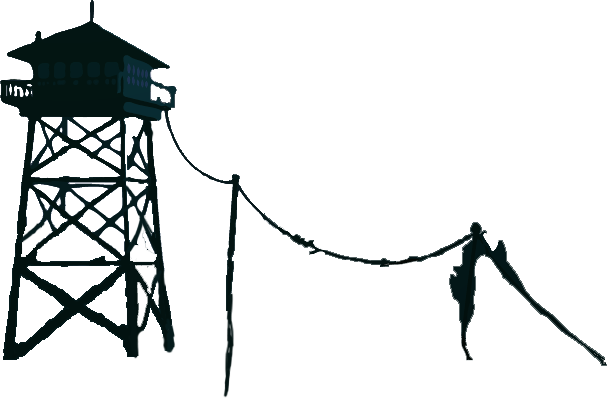
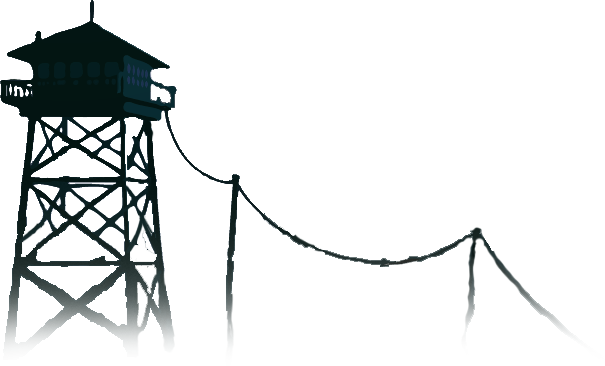
Added parallax movement effect

Changed region(s): [[0.0, 0.0301, 1.0, 1.0]]

diff --git a/style.css b/style.css
@@ -23,7 +23,9 @@ header {
 }
 
 header nav {
-    font-family: 'Spectral SC', serif;
+    font-family: 'Full Sans LC', serif;
+    text-transform: uppercase;
+    letter-spacing: 2px;
     justify-content: space-between;
     align-items: center;
     max-width: 1650px;
@@ -131,55 +133,44 @@ main {
 
 .layer7 {
     position: absolute;
-    width: 1920px;
     top: 50%;
     left: 50%;
-    transform: translate(-50%, -50%);
-    z-index: 1
+    z-index: 1;
 }
 
 .layer6 {
     position: absolute;
-    width: 1920px;
-    top: 55%;
+    top: 70%;
     left: 50%;
-    transform: translate(-50%, -50%);
     z-index: 2
 }
 
 .layer5 {
     position: absolute;
-    width: 1920px;
-    top: 60%;
+    top: 70%;
     left: 50%;
-    transform: translate(-50%, -50%);
     z-index: 3
 }
 
 .layer4 {
     position: absolute;
-    width: 1920px;
-    top: 65%;
+    top: 70%;
     left: 50%;
-    transform: translate(-50%, -50%);
     z-index: 4
 }
 
 .fog {
     position: absolute;
-    width: 1920px;
     top: 50%;
     left: 50%;
-    transform: translate(-50%, -50%);
     z-index: 5
 }
 
 .layer3 {
     position: absolute;
     width: 455px;
-    top: 50%;
-    left: 50%;
-    transform: translate(-15%, -50%);
+    top: 56%;
+    left: 58%;
     z-index: 6
 }
 
@@ -188,7 +179,7 @@ main {
     z-index: 7;
     display: flex;
     width: 100vw;
-    top: 52%;
+    top: 59%;
     left: 50%;
     transform: translate(-50%, -50%);
     text-align: center;
@@ -204,48 +195,44 @@ main {
 
 .layer2 {
     position: absolute;
-    width: 1920px;
-    top: 66%;
+    top: 75%;
     left: 50%;
-    transform: translate(-50%, -50%);
     z-index: 8
 }
 
 .layer1 {
     position: absolute;
-    width: 1920px;
-    top: 77%;
+    top:85%;
     left: 50%;
-    transform: translate(-50%, -50%);
     z-index: 9
 }
 
 .parallax {
     pointer-events: none;
-
+    transform: translate(-50%, -50%);
 }
 
 .slogan {
     position: absolute;
     z-index: 10;
-    top: 65%;
+    top: 72%;
     left: 50%;
-    transform: translate(-50%, -50%);
-    text-align: center;
+    text-align: left;
+    width: 600px;
     text-transform: uppercase;
     color: white;
     font-family: "Full Sans LC";
     font-size: 2.5rem;
     letter-spacing: 5px;
+    transform: translate(-50%, -50%);
 }
 
 .moon {
     position: absolute;
     width: 198px;
-    top: 18%;
+    top:26%;
     left: 50%;
-    transform: translate(-50%, -50%);
-    z-index: 11
+    z-index: 1
 }
 
 .light {
@@ -253,9 +240,9 @@ main {
     width: 1920px;
     top: 50%;
     left: 50%;
-    transform: translate(-50%, -50%);
     z-index: 12;
     pointer-events: none;
+    transform: translate(-50%, -50%);
 }
 
 /* Vignette */

diff --git a/index.html b/index.html
@@ -10,7 +10,7 @@
     <link rel="preconnect" href="https://fonts.gstatic.com" crossorigin>
     <link href="https://fonts.googleapis.com/css2?family=Quicksand:wght@300..700&display=swap" rel="stylesheet">
 </head>
-<body>
+<body onload = "sloganTypingEffect(); parallaxEffect()">
     <header>
         <nav id="desktop-nav">
             <div class="logo"><img src="Assets/Images/logo (white).png" alt="Jace Logo" style="width:50px;height:50px;"></div>
@@ -45,21 +45,21 @@
 
     <main>
         <div class="vignette"></div>
-        <img src="Assets/Images/Layer 7.png" class="parallax layer7">
-        <img src="Assets/Images/Layer 6.png" class="parallax layer6">
-        <img src="Assets/Images/Layer 5.png" class="parallax layer5">
-        <img src="Assets/Images/Layer 4.png" class="parallax layer4">
-        <img src="Assets/Images/fog.png" class="parallax fog">
-        <img src="Assets/Images/Layer 3.png" class="parallax layer3">
-        <div class="parallax name">
+        <img src="Assets/Images/Layer 7.png" data-speedX="0.027" data-speedY="0.027" class="parallax layer7">
+        <img src="Assets/Images/Layer 6.png" data-speedX="0.059" data-speedY="0.059" class="parallax layer6">
+        <img src="Assets/Images/Layer 5.png" data-speedX="0.08" data-speedY="0.08" class="parallax layer5">
+        <img src="Assets/Images/Layer 4.png" data-speedX="0.065" data-speedY="0.065" class="parallax layer4">
+        <img src="Assets/Images/fog.png" data-speedX="0.25" data-speedY="0.25" class="parallax fog">
+        <img src="Assets/Images/Layer 3.png" data-speedX="0.1" data-speedY="0.1" class="parallax layer3">
+        <div data-speedX="0.125" data-speedY="0.125" class="parallax name">
             <span>Jace Mu</span>
         </div>
-        <img src="Assets/Images/Layer 2.png" class="parallax layer2">
-        <img src="Assets/Images/Layer 1.png" class="parallax layer1">
-        <div class="slogan">
-            <p>Welcome to my story.</p>
+        <img src="Assets/Images/Layer 2.png" data-speedX="0.15" data-speedY="0.15" class="parallax layer2">
+        <img src="Assets/Images/Layer 1.png" data-speedX="0.22" data-speedY="0.22" class="parallax layer1">
+        <div data-speedX="0.125" data-speedY="0.125" class="parallax slogan">
+            <p id="sloganText"></p>
         </div>
-        <img src="Assets/Images/moon.png" class="parallax moon">
+        <img src="Assets/Images/moon.png" data-speedX="0.027" data-speedY="0.027" class="parallax moon">
         <img src="Assets/Images/light.png" class="light">
     </main>
 

diff --git a/script.js b/script.js
@@ -1,4 +1,35 @@
+function parallaxEffect() {
+    const parallax_el = document.querySelectorAll(".parallax");
+
+    let xValue = 0, yValue = 0;
+
+    window.addEventListener("mousemove", (e) => {
+        xValue = e.clientX - window.innerWidth/2;
+        yValue = e.clientY - window.innerHeight/2;
+
+        parallax_el.forEach((el) => {
+            let speedX = el.dataset.speedx;
+            let speedY = el.dataset.speedy;
+            el.style.transform = `translateX(calc(-50% + ${-xValue * speedX}px)) 
+            translateY(calc(-50% + ${yValue * speedY}px))`;
+            console.log(speedX);
+            console.log(el);
+        });
+    });
+}
+
 function toggleMenu() {
     const menu = document.querySelector('.menu-links');
-    
+}
+
+var i = 0;
+function sloganTypingEffect() {
+    var txt = 'Welcome to my story.';
+    var speed = 40;
+
+    if (i < txt.length) {
+        document.getElementById("sloganText").innerHTML += txt.charAt(i);
+        i++;
+        setTimeout(sloganTypingEffect, speed);
+      }
 }
